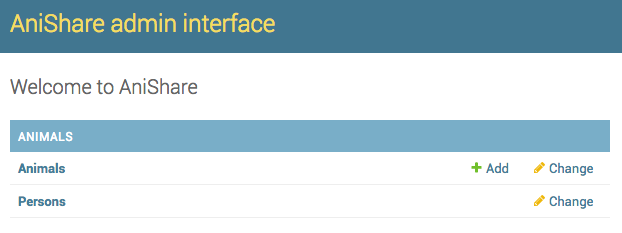
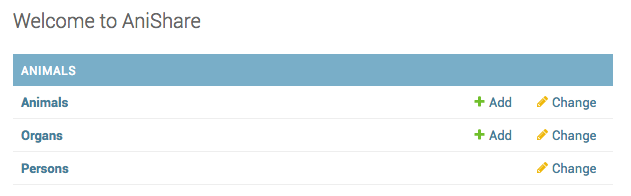
DOCU: replace images with new headers (organs added)

diff --git a/doc/index.rst b/doc/index.rst
@@ -25,7 +25,7 @@ sharing animals within the institute, less animals in total have to be sacrifice
 Anishare is a simple database of animals offered for reuse and a easy way to claim an animal with
 automatic generation of email messages as well as an RSS feed for updates.
 
-.. image:: img/anishare_index_view.png
+.. image:: img/anishare_index.png
 
 At the moment, the software/database is geared towards handling of mice, however, it can be adjusted
 to handle any kind of research animal.
@@ -114,6 +114,58 @@ The webservice is split in two parts: The **animal input** method is via the Dja
 "Add Animal" top right) and is meant for *animal managers* only. 
 The **claim** method is via the normal web interface and is meant for normal users (who need to be
 authenticated, though).
+
+Main user interface
+^^^^^^^^^^^^^^^^^^^
+
+Animals
+"""""""
+
+The main user-facing site is the list of animals to be shared. A user can browse this list, sort it
+via the headers or search for a term using the search bar.
+
+.. image:: img/anishare_index.png
+
+If a user is interested in an animal, they should click on the button "Claim" which will bring up
+another page (see below) in which they can review their claim before finally submitting. When they
+click on "Yes, I want to claim this!", then they will be entered as *new owner* of this animal and
+an email will be send to them as well as the responsible/contact person informing them about this
+transaction. Further steps might need to be necessary such as transferring the animal in the LIMS
+(eg. PyRat).
+
+.. Note:: If more than one animal is available, the user can adjust the number they want to claim.
+          The remaining animals will still be available for claim.
+
+.. image:: img/anishare_claim.png
+
+Organs
+""""""
+
+There exists an individual page for animal organ share. It is very similar to the animal page,
+however only individual organs are for offer. Also there is no availability period, but a day at
+which the animal gets sacrificed. The person responsible for killing the animal will be informed via
+email if anybody claims some of the available organs. The entry will remain available to others (as
+they might want to claim other organs).
+
+Organ index view:
+
+.. image:: img/organs_index.png
+
+Organ claim view:
+
+.. image:: img/organs_claim.png
+
+
+RSS Feed
+""""""""
+
+An RSS feed containing the latest ten animals and organs is automatically generated and can be found at
+`/animals/feed`. Users can subscribe (Most email clients allow the subscription
+to RSS feeds) to this feed to stay up-to-date with the animal catalogue. By clicking on a link in
+the feed, they are directed to the claim page of the individual animal/organ.
+
+.. image:: img/anishare_rss_feed.png
+   :width: 50%
 
 
 Main animal manager tasks
@@ -230,38 +282,6 @@ Afterwards, create a new virtualenv and install the required libraries like so::
     virtualenv -p python3 .
     source bin/activate
     pip install -r requirements.txt
-
-
-Main user interface
-^^^^^^^^^^^^^^^^^^^
-
-The main user-facing site is the list of animals to be shared. A user can browse this list, sort it
-via the headers or search for a term using the search bar.
-
-.. image:: img/anishare_index.png
-
-If a user is interested in an animal, they should click on the button "Claim" which will bring up
-another page (see below) in which they can review their claim before finally submitting. When they
-click on "Yes, I want to claim this!", then they will be entered as *new owner* of this animal and
-an email will be send to them as well as the responsible/contact person informing them about this
-transaction. Further steps might need to be necessary such as transferring the animal in the LIMS
-(eg. PyRat).
-
-.. Note:: If more than one animal is available, the user can adjust the number they want to claim.
-          The remaining animals will still be available for claim.
-
-.. image:: img/anishare_claim.png
-
-RSS Feed
-""""""""
-
-An RSS feed containing the latest ten animals is automatically generated and can be found at
-`/animals/feed`. Users can subscribe (Most email clients allow the subscription
-to RSS feeds) to this feed to stay up-to-date with the animal catalogue. By clicking on a link in
-the feed, they are directed to the claim page of the individual animal.
-
-.. image:: img/anishare_rss_feed.png
-   :width: 50%
 
 
 API documentation
